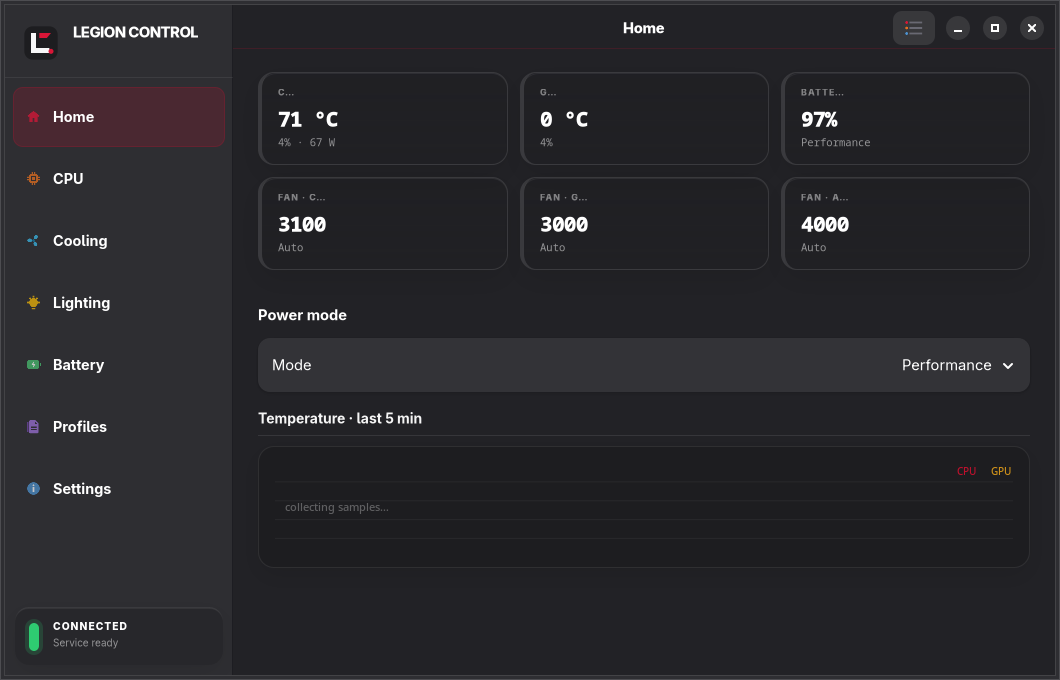
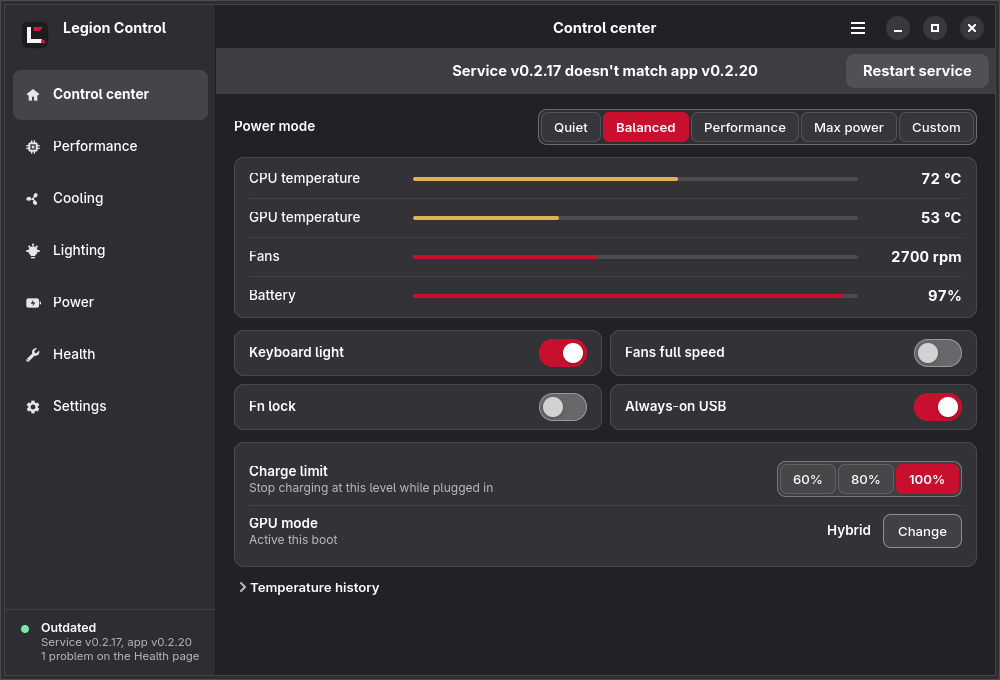
feat(ui): 0.2.20 GUI revamp polish, headless screenshot script, README gallery
- Curve editor label plates use the opaque window colour (were white in dark)
- Welcome dialog shows plain release highlights, not raw markdown
- Power chip says Plugged in; hardware essentials drop developer tooltips
- Cooling reason text reads as sentences; heading stays on one line
- capture-screenshots.sh renders off-screen via X11 and never touches the tray
- README gallery rebuilt for the new pages; version 0.2.20 and release notes

diff --git a/src/settings/welcome.rs b/src/settings/welcome.rs
@@ -178,28 +178,20 @@ pub(crate) fn show_welcome_if_needed(
         });
         glib::timeout_add_local(Duration::from_millis(300), move || match rx.try_recv() {
             Ok(Ok(info)) => {
-                let highlights: String = info
-                    .body
-                    .lines()
-                    .filter(|l| {
-                        let t = l.trim_start();
-                        t.starts_with("- ") && !t.starts_with("|")
-                    })
-                    .take(4)
-                    .map(|l| format!("• {}", l.trim_start_matches('-').trim()))
-                    .collect::<Vec<_>>()
-                    .join("\n");
+                let highlights = legion_core::update::release_highlights(&info.body, 4);
                 if !highlights.is_empty() {
-                    let label = gtk::Label::new(Some(&format!(
-                        "What's new in v{}\n{highlights}",
-                        info.version
-                    )));
-                    label.set_halign(Align::Start);
-                    label.set_wrap(true);
-                    label.set_xalign(0.0);
-                    label.set_margin_start(4);
-                    label.add_css_class("page-sub");
-                    page_whats_new.append(&label);
+                    let title = gtk::Label::new(Some(&format!("New in version {}", info.version)));
+                    title.set_halign(Align::Start);
+                    title.add_css_class("heading");
+                    page_whats_new.append(&title);
+                    for h in highlights {
+                        let label = gtk::Label::new(Some(&h));
+                        label.set_halign(Align::Start);
+                        label.set_wrap(true);
+                        label.set_xalign(0.0);
+                        label.add_css_class("page-sub");
+                        page_whats_new.append(&label);
+                    }
                 }
                 glib::ControlFlow::Break
             }

diff --git a/src/update.rs b/src/update.rs
@@ -245,6 +245,24 @@ pub fn changelog_headline(body: &str) -> String {
 }
 
 /// Full notes for the What's new tab (tables stripped).
+/// Short plain-text highlights from release notes: the bold title of each
+/// top-level bullet (or the bullet text without markdown), at most `n`.
+pub fn release_highlights(body: &str, n: usize) -> Vec<String> {
+    body.lines()
+        .filter(|l| l.starts_with("- ") || l.starts_with("* "))
+        .map(|l| {
+            let t = l[2..].trim();
+            let t = match (t.strip_prefix("**"), t.find("**:")) {
+                (Some(rest), Some(_)) => rest.split("**").next().unwrap_or(rest),
+                _ => t,
+            };
+            t.replace("**", "").replace('`', "").trim().trim_end_matches(':').to_string()
+        })
+        .filter(|t| !t.is_empty())
+        .take(n)
+        .collect()
+}
+
 pub fn changelog_notes(body: &str) -> String {
     let notes = body
         .lines()
@@ -1943,5 +1961,14 @@ mod tests {
         fs::write(dir.join("install.sh"), "#!/bin/sh\n").unwrap();
         assert!(looks_like_source_tree(&dir));
         let _ = fs::remove_dir_all(&dir);
+    }
+
+    #[test]
+    fn release_highlights_strip_markdown() {
+        let body = "## v1\n- **GPU mode (MUX)**: switch between `hybrid` and dGPU\n  - nested detail\n- Plain `item`\n| table |";
+        assert_eq!(
+            super::release_highlights(body, 4),
+            vec!["GPU mode (MUX)".to_string(), "Plain item".to_string()]
+        );
     }
 }

diff --git a/src/settings/battery.rs b/src/settings/battery.rs
@@ -10,14 +10,14 @@ pub(crate) fn power_text(status: &str, watts: f64) -> String {
     let w = watts.abs();
     if w < 0.05 {
         return match status {
-            "Not charging" | "Full" => "Plugged in, not charging".to_string(),
+            "Not charging" | "Full" => "Plugged in".to_string(),
             _ => "Idle".to_string(),
         };
     }
     match status {
         "Charging" => format!("Charging {w:.0} W"),
         "Discharging" => format!("Draining {w:.1} W"),
-        "Not charging" | "Full" => "Plugged in, not charging".to_string(),
+        "Not charging" | "Full" => "Plugged in".to_string(),
         _ => format!("{w:.1} W"),
     }
 }
@@ -549,8 +549,8 @@ mod tests {
         assert_eq!(power_text("Discharging", 0.0), "Idle");
         assert_eq!(power_text("Charging", 45.2), "Charging 45 W");
         assert_eq!(power_text("Discharging", 9.84), "Draining 9.8 W");
-        assert_eq!(power_text("Not charging", 0.0), "Plugged in, not charging");
-        assert_eq!(power_text("Full", 3.0), "Plugged in, not charging");
+        assert_eq!(power_text("Not charging", 0.0), "Plugged in");
+        assert_eq!(power_text("Full", 3.0), "Plugged in");
     }
 
     #[test]

diff --git a/src/settings/cooling.rs b/src/settings/cooling.rs
@@ -369,15 +369,16 @@ impl CurveUi {
         // Say why a button is greyed out instead of leaving it a mystery.
         let mut why = Vec::new();
         if st.is_some() && !can_factory {
-            why.push("Already the factory shape");
+            why.push("Already the factory shape.");
         }
         if st.is_some() && !enabled {
-            why.push("No custom curve to reset");
+            why.push("No custom curve to reset.");
         }
-        self.reason.set_text(&why.join(", "));
+        self.reason.set_text(&why.join(" "));
         self.reason.set_visible(!why.is_empty());
-        self.headline
-            .set_text(&format!("Fan curve for {}", profile_tab_label(&profile)));
+        // The selector beside it names the mode; keep the heading one line.
+        let _ = profile_tab_label(&profile);
+        self.headline.set_text("Fan curve");
         self.editor.set_now(
             st.as_ref()
                 .filter(|s| s.current_profile == profile)

diff --git a/src/settings/curve_editor.rs b/src/settings/curve_editor.rs
@@ -185,9 +185,11 @@ impl CurveEditor {
             #[allow(deprecated)]
             let panel = area
                 .style_context()
-                .lookup_color("card_bg_color")
+                // window_bg is opaque; card_bg is translucent and would fill white.
+                .lookup_color("window_bg_color")
+                .filter(|c| c.alpha() > 0.99)
                 .map(|c| (c.red() as f64, c.green() as f64, c.blue() as f64))
-                .unwrap_or(if light_text { (0.19, 0.19, 0.2) } else { (1.0, 1.0, 1.0) });
+                .unwrap_or(if light_text { (0.14, 0.14, 0.15) } else { (0.98, 0.98, 0.98) });
             let plate = |cr: &gtk::cairo::Context, x: f64, y: f64, w: f64, h: f64| {
                 let r = 5.0;
                 cr.new_sub_path();

diff --git a/src/settings/about.rs b/src/settings/about.rs
@@ -1251,7 +1251,8 @@ pub(crate) fn build_about_pages(
     ] {
         let essential = matches!(k, "Model" | "Machine type" | "BIOS" | "Processor" | "Graphics");
         if essential {
-            laptop.add(&property_row(k, v, Some(tip_text)));
+            let _ = tip_text; // essentials need no developer tooltip
+            laptop.add(&property_row(k, v, None));
         } else {
             laptop_more.add(&property_row(k, v, Some(tip_text)));
         }

diff --git a/README.md b/README.md
@@ -35,84 +35,55 @@
   <img src="docs/assets/made-in-europe.svg" alt="Made in Europe · for everyone" width="320">
 </p>
 
-> **Experimental:** community-developed, no warranty. Hardware writes can affect system state — use with a recovery plan. Screenshots below are captured headless on an isolated `Xvfb :99 + openbox` session (`GDK_BACKEND=x11`, `GSK_RENDERER=cairo`) — your real desktop is never obscured.
+> **Experimental:** community-developed, no warranty. Hardware writes can affect system state — use with a recovery plan. 
 
 ---
 
-### Hero — Home overview on Legion Pro 7 16AFR10H (83RU)
+### Control center on a Legion Pro 7 16AFR10H (83RU)
 
 <p align="center">
-  <a href="docs/assets/screenshots/01-home-overview.png"><img src="docs/assets/screenshots/01-home-overview.png" alt="Home — metric chips, fans, battery, power mode" width="920"></a><br>
-  <sub><b>Home</b> · live chips · Fan overview · Battery · Custom PPT — 1060×680, dark libadwaita, captured offscreen</sub>
-</p>
-
-<p align="center">
-  <a href="docs/assets/screenshots/05-cooling.png"><img src="docs/assets/screenshots/05-cooling.png" alt="Cooling" width="275"></a>
-  <a href="docs/assets/screenshots/06-lighting-keyboard.png"><img src="docs/assets/screenshots/06-lighting-keyboard.png" alt="Lighting keyboard" width="275"></a>
-  <a href="docs/assets/screenshots/11-battery.png"><img src="docs/assets/screenshots/11-battery.png" alt="Battery" width="275"></a>
+  <a href="docs/assets/screenshots/01-home-overview.png"><img src="docs/assets/screenshots/01-home-overview.png" alt="Control center: power mode, temperatures, fans, battery, quick toggles" width="920"></a><br>
+  <sub>Power mode, live temperatures, fans, battery and the toggles you use most. Everything else lives on its own page.</sub>
 </p>
 
 ---
 
-## Screenshots — the whole app, no workflow interruption
+## Screenshots
 
-> Every image is a **real 1060×680 window** rendered headless (`Xvfb 1400×900 + openbox`, `LEGION_PAGE=…`, `xwd`→`png`). No compositor grab of your live session — the session stays untouched. Click any thumbnail for full resolution.
+Version 0.2.20 redesigns every page: one button style, plain wording, and no scrolling at the default 1000×680 window. Click a thumbnail for full size.
 
 <table>
 <tr>
-<td align="center"><a href="docs/assets/screenshots/01-home-overview.png"><img src="docs/assets/screenshots/01-home-overview.png" width="260" alt="Home"></a><br><b>Home</b><br><sub>chips · fans · battery</sub></td>
-<td align="center"><a href="docs/assets/screenshots/02-cpu-features.png"><img src="docs/assets/screenshots/02-cpu-features.png" width="260" alt="CPU Features"></a><br><b>CPU · Features</b><br><sub>boost · SMT</sub></td>
-<td align="center"><a href="docs/assets/screenshots/03-cpu-tuning.png"><img src="docs/assets/screenshots/03-cpu-tuning.png" width="260" alt="CPU Tuning"></a><br><b>CPU · Tuning</b><br><sub>thermal · CO · stability</sub></td>
+<td align="center"><a href="docs/assets/screenshots/02-cpu-features.png"><img src="docs/assets/screenshots/02-cpu-features.png" width="260" alt="Performance: Features"></a><br><b>Performance: Features</b><br><sub>Boost, hyperthreading, GPU mode</sub></td>
+<td align="center"><a href="docs/assets/screenshots/03-cpu-tuning.png"><img src="docs/assets/screenshots/03-cpu-tuning.png" width="260" alt="Performance: Tuning"></a><br><b>Performance: Tuning</b><br><sub>Temperature limit, Curve Optimizer</sub></td>
+<td align="center"><a href="docs/assets/screenshots/04-cpu-power.png"><img src="docs/assets/screenshots/04-cpu-power.png" width="260" alt="Performance: Power"></a><br><b>Performance: Power</b><br><sub>Custom power limits</sub></td>
 </tr>
 <tr>
-<td align="center"><a href="docs/assets/screenshots/04-cpu-power.png"><img src="docs/assets/screenshots/04-cpu-power.png" width="260" alt="CPU Power"></a><br><b>CPU · Power</b><br><sub>read-only PPT preview</sub></td>
-<td align="center"><a href="docs/assets/screenshots/05-cooling.png"><img src="docs/assets/screenshots/05-cooling.png" width="260" alt="Cooling"></a><br><b>Cooling</b><br><sub>all fans at a glance</sub></td>
-<td align="center"><a href="docs/assets/screenshots/06-lighting-keyboard.png"><img src="docs/assets/screenshots/06-lighting-keyboard.png" width="260" alt="Lighting Keyboard"></a><br><b>Lighting · Keyboard</b><br><sub>zone + per-key</sub></td>
+<td align="center"><a href="docs/assets/screenshots/12-profiles.png"><img src="docs/assets/screenshots/12-profiles.png" width="260" alt="Profiles"></a><br><b>Profiles</b><br><sub>Save and restore a full setup</sub></td>
+<td align="center"><a href="docs/assets/screenshots/05-cooling.png"><img src="docs/assets/screenshots/05-cooling.png" width="260" alt="Cooling"></a><br><b>Cooling</b><br><sub>Fan curve per power mode</sub></td>
+<td align="center"><a href="docs/assets/screenshots/06-lighting-keyboard.png"><img src="docs/assets/screenshots/06-lighting-keyboard.png" width="260" alt="Lighting"></a><br><b>Lighting</b><br><sub>Effect, colour, brightness, per key</sub></td>
 </tr>
 <tr>
-<td align="center"><a href="docs/assets/screenshots/07-lighting-front.png"><img src="docs/assets/screenshots/07-lighting-front.png" width="260" alt="Front"></a><br><b>Lighting · Front</b><br><sub>chin bar</sub></td>
-<td align="center"><a href="docs/assets/screenshots/08-lighting-rear.png"><img src="docs/assets/screenshots/08-lighting-rear.png" width="260" alt="Rear"></a><br><b>Lighting · Rear</b><br><sub>hinge bar</sub></td>
-<td align="center"><a href="docs/assets/screenshots/09-lighting-logo.png"><img src="docs/assets/screenshots/09-lighting-logo.png" width="260" alt="Logo"></a><br><b>Lighting · Logo</b><br><sub>lid star</sub></td>
+<td align="center"><a href="docs/assets/screenshots/10-lighting-more.png"><img src="docs/assets/screenshots/10-lighting-more.png" width="260" alt="Lighting: All lights"></a><br><b>Lighting: All lights</b><br><sub>One effect on every zone</sub></td>
+<td align="center"><a href="docs/assets/screenshots/11-battery.png"><img src="docs/assets/screenshots/11-battery.png" width="260" alt="Power"></a><br><b>Power</b><br><sub>Battery, charge limit, Fn lock, USB</sub></td>
+<td align="center"><a href="docs/assets/screenshots/14-health.png"><img src="docs/assets/screenshots/14-health.png" width="260" alt="Health"></a><br><b>Health</b><br><sub>Self-check, speakers, keyboard lighting</sub></td>
 </tr>
 <tr>
-<td align="center"><a href="docs/assets/screenshots/10-lighting-more.png"><img src="docs/assets/screenshots/10-lighting-more.png" width="260" alt="More"></a><br><b>Lighting · More</b><br><sub>brightness · all zones</sub></td>
-<td align="center"><a href="docs/assets/screenshots/11-battery.png"><img src="docs/assets/screenshots/11-battery.png" width="260" alt="Battery"></a><br><b>Battery</b><br><sub>health · limit · status</sub></td>
-<td align="center"><a href="docs/assets/screenshots/12-profiles.png"><img src="docs/assets/screenshots/12-profiles.png" width="260" alt="Profiles"></a><br><b>Profiles</b><br><sub>save · load · preset</sub></td>
-</tr>
-<tr>
-<td align="center"><a href="docs/assets/screenshots/13-settings-setup.png"><img src="docs/assets/screenshots/13-settings-setup.png" width="260" alt="Settings Setup"></a><br><b>Settings · Setup</b><br><sub>updates · daemon · diagnostics</sub></td>
-<td align="center"><a href="docs/assets/screenshots/14-settings-fix.png"><img src="docs/assets/screenshots/14-settings-fix.png" width="260" alt="Settings Fix"></a><br><b>Settings · Fix</b><br><sub>speakers · RGB · udev · logs</sub></td>
-<td align="center"><a href="docs/assets/screenshots/15-settings-hardware.png"><img src="docs/assets/screenshots/15-settings-hardware.png" width="260" alt="Settings Hardware"></a><br><b>Settings · Hardware</b><br><sub>DMI · EC · lighting</sub></td>
-</tr>
-<tr>
-<td align="center"><a href="docs/assets/screenshots/16-settings-help.png"><img src="docs/assets/screenshots/16-settings-help.png" width="260" alt="Settings Help"></a><br><b>Settings · Help</b><br><sub>links · legal</sub></td>
-<td align="center"><a href="docs/assets/screenshots/19-widget.png"><img src="docs/assets/screenshots/19-widget.png" width="260" alt="KDE Plasma widget"></a><br><b>KDE widget</b><br><sub>gauges · controls · plasma</sub></td>
-<td></td>
+<td align="center"><a href="docs/assets/screenshots/13-settings-setup.png"><img src="docs/assets/screenshots/13-settings-setup.png" width="260" alt="Settings"></a><br><b>Settings</b><br><sub>Updates, components, startup</sub></td>
+<td align="center"><a href="docs/assets/screenshots/15-settings-hardware.png"><img src="docs/assets/screenshots/15-settings-hardware.png" width="260" alt="Hardware"></a><br><b>Hardware</b><br><sub>Model, BIOS, CPU, GPU</sub></td>
+<td align="center"><a href="docs/assets/screenshots/16-settings-help.png"><img src="docs/assets/screenshots/16-settings-help.png" width="260" alt="Help"></a><br><b>Help</b><br><sub>Report an issue, legal</sub></td>
 </tr>
 </table>
 
+<p align="center">
+  <a href="docs/assets/screenshots/19-widget.png"><img src="docs/assets/screenshots/19-widget.png" width="260" alt="KDE Plasma widget"></a><br>
+  <b>KDE Plasma widget</b>
+</p>
+
 <details>
-<summary><b>How screenshots are taken without obscuring your workflow</b></summary>
+<summary><b>How these screenshots are made</b></summary>
 
-```bash
-# 1. Isolate — virtual display, no grab of your real Wayland session
-Xvfb :99 -screen 0 1400x900x24 -ac &
-DISPLAY=:99 openbox --sm-disable &
-
-# 2. Run each page headless, with a private window
-DISPLAY=:99 WAYLAND_DISPLAY= GDK_BACKEND=x11 GSK_RENDERER=cairo \
-  LEGION_PAGE=overview legion-settings &
-
-# 3. Capture the 1060×680 CSD window directly
-WIN=$(DISPLAY=:99 xdotool search --onlyvisible --name "Legion Control")
-DISPLAY=:99 xwd -id $WIN -out page.xwd
-magick page.xwd page.png
-
-# 4. Real session is untouched — the hidden tray instance is
-#    briefly replaced and then restarted automatically
-```
-
-All 17 images in [`docs/assets/screenshots/`](docs/assets/screenshots/) are produced this way. Run `scripts/capture-screenshots.sh` to regenerate.
+`scripts/capture-screenshots.sh [dark|light]` renders each page on a private Xvfb display with GTK forced to X11, so nothing opens on your desktop and your tray instance keeps running. It uses a temporary copy of your settings with diagnostics turned off.
 
 </details>
 

diff --git a/docs/changelog/v0.2.20.md b/docs/changelog/v0.2.20.md
@@ -1,0 +1,26 @@
+# Changelog - 0.2.20 (2026-10-14)
+
+Major GUI revamp. Every page was redesigned to be calmer and easier to read: one button style, plain wording, and no scrolling at the default window size. This release also adds a custom fan curve, a new tray menu and KDE widget, and several fixes found through fleet telemetry. Tested on a Legion Pro 7 16AFR10H (83RU).
+
+## New
+
+- **Redesigned app**: every page was rebuilt around what you need at a glance.
+  - The Control center shows power mode, temperatures, fans and battery, plus four quick toggles. Details moved to tooltips and their own pages.
+  - One button design everywhere, with visible outlines also when a button is unavailable, and the reason shown next to it.
+  - Plain words instead of technical terms ("Background service", "Keyboard lighting is working", "Draining 9.8 W").
+  - Advanced controls sit behind "Advanced" so the default view stays short.
+  - Works in light and dark themes; the window no longer grows wider than the screen.
+- **Custom fan curve**: draw your own temperature to fan speed curve per power mode on the Cooling page.
+  - The selector opens on the power mode that is active now, so it is clear which curve you are editing.
+  - Above 90 °C every fan runs at full speed, and any sensor error hands control back to the firmware.
+- **Lighting**: brightness is shown in percent, a preview strip shows the current colour and effect, and duplicate brightness sliders are gone.
+- **Tray menu and KDE widget**: clearer labels ("Fans: Idle", "Keyboard light: High"), grouped entries, and full mode names.
+- **Idle fans**: fans stopped by the firmware's quiet mode now read "Idle" instead of "0 rpm".
+
+## Fixes
+
+- **NVIDIA GPU temperature**: the background service can read the dedicated GPU again. Its sandbox blocked the device, which also made the fan curve fall back to the firmware.
+- **Fans staying off**: the service no longer re-sends "automatic" to fans that are already automatic. On Gen 10 firmware this could keep fans stopped for longer.
+- **AMD tuning driver**: "Install" in Settings now works on source installs. The installer always ships the driver source; building it stays optional.
+- **Installer**: a system-wide install removes old copies in `~/.local/bin` that could shadow the new version.
+- **Welcome screen**: release highlights show as short plain text instead of raw formatting.

diff --git a/docs/changelog/CHANGELOG.md b/docs/changelog/CHANGELOG.md
@@ -3,8 +3,12 @@
 Single repo since 2026-08-25 (outer monorepo merged under `meta/`).
 Newest first. Pre-attribution SHAs live on branch `backup/pre-attribution`.
 
-Per-release GitHub notes: [`v0.2.17.md`](v0.2.17.md), [`v0.2.16.md`](v0.2.16.md), [`v0.2.15.md`](v0.2.15.md), [`v0.2.14.md`](v0.2.14.md), [`v0.2.13.md`](v0.2.13.md), [`v0.2.12.md`](v0.2.12.md), [`v0.2.11.md`](v0.2.11.md), [`v0.2.10.md`](v0.2.10.md), [`v0.2.4.md`](v0.2.4.md), [`v0.2.3.md`](v0.2.3.md), [`v0.2.2.md`](v0.2.2.md), [`v0.2.1.md`](v0.2.1.md), [`v0.2.0.md`](v0.2.0.md), [`v0.1.9.md`](v0.1.9.md), [`v0.1.8.md`](v0.1.8.md).
+Per-release GitHub notes: [`v0.2.20.md`](v0.2.20.md), [`v0.2.17.md`](v0.2.17.md), [`v0.2.16.md`](v0.2.16.md), [`v0.2.15.md`](v0.2.15.md), [`v0.2.14.md`](v0.2.14.md), [`v0.2.13.md`](v0.2.13.md), [`v0.2.12.md`](v0.2.12.md), [`v0.2.11.md`](v0.2.11.md), [`v0.2.10.md`](v0.2.10.md), [`v0.2.4.md`](v0.2.4.md), [`v0.2.3.md`](v0.2.3.md), [`v0.2.2.md`](v0.2.2.md), [`v0.2.1.md`](v0.2.1.md), [`v0.2.0.md`](v0.2.0.md), [`v0.1.9.md`](v0.1.9.md), [`v0.1.8.md`](v0.1.8.md).
 The app does not read this folder; in-app update text comes from the GitHub release body.
+
+## 0.2.20 - 2026-10-14
+
+Major GUI revamp, custom fan curve, new tray menu and widget, NVIDIA sandbox fix. See [`v0.2.20.md`](v0.2.20.md).
 
 ## 0.2.17 - 2026-10-14
 

diff --git a/CHANGELOG.md b/CHANGELOG.md
@@ -3,6 +3,6 @@
 Release notes live in [`docs/changelog/`](docs/changelog/).
 
 - Rolling log: [`docs/changelog/CHANGELOG.md`](docs/changelog/CHANGELOG.md)
-- Per-release notes (GitHub `--notes-file`): [`docs/changelog/v0.2.17.md`](docs/changelog/v0.2.17.md)
+- Per-release notes (GitHub `--notes-file`): [`docs/changelog/v0.2.20.md`](docs/changelog/v0.2.20.md)
 
 The settings app shows “What’s new” from the GitHub release body, not from these files.
